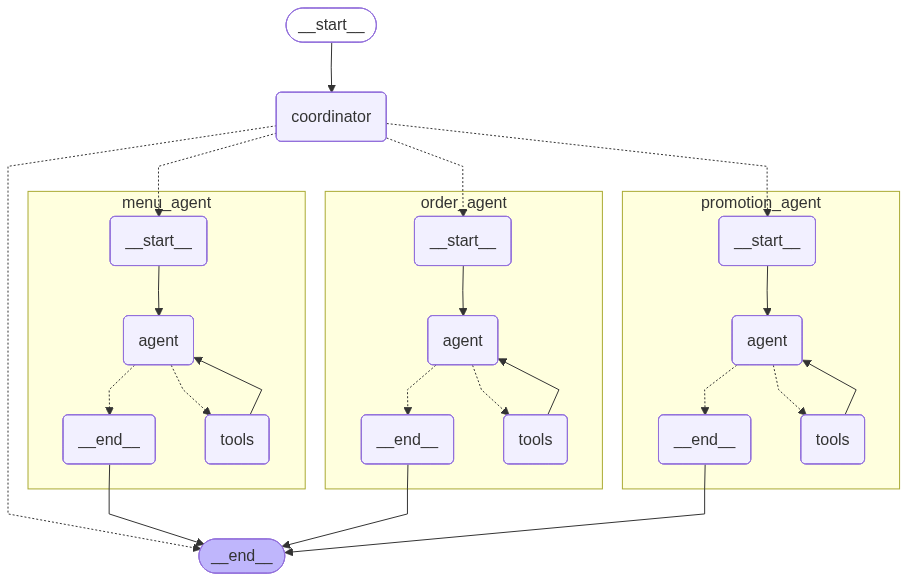
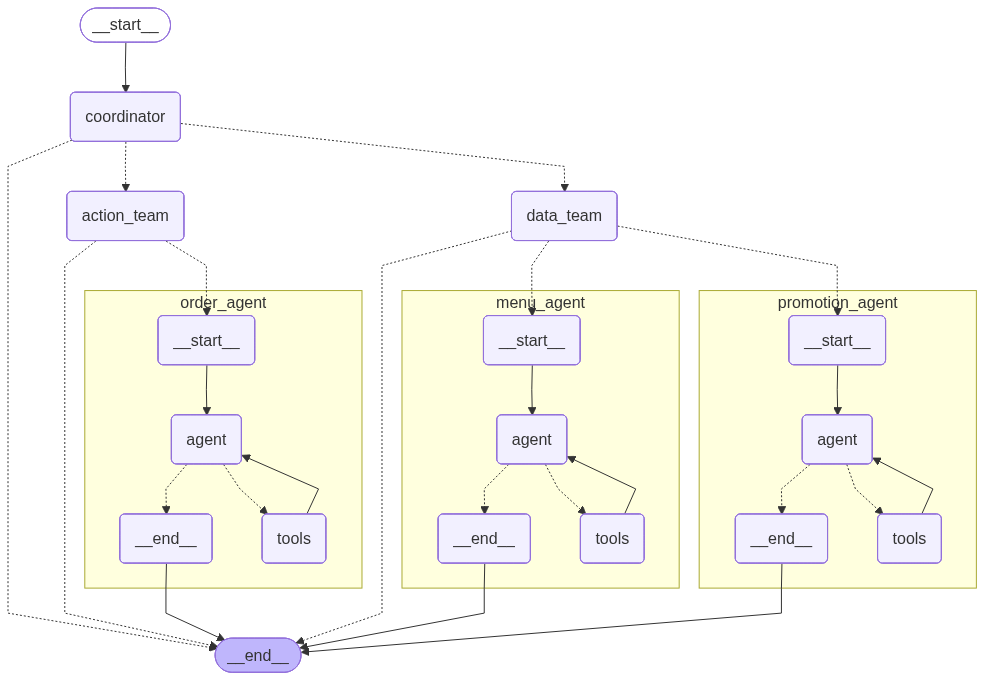
docs(graph): move architecture images to statics and update export/doc references

diff --git a/ai-service/scripts/export_graph.py b/ai-service/scripts/export_graph.py
@@ -1,31 +1,35 @@
-"""Export LangGraph chatbot architecture as PNG images."""
+"""Export chatbot architecture diagrams to statics/.
 
-import os
-import sys
+Run:
+    uv run graph.py
+"""
+
 from pathlib import Path
 
-# Add project root to Python path (works from any directory)
-PROJECT_ROOT = str(Path(__file__).resolve().parent.parent)
-sys.path.insert(0, PROJECT_ROOT)
-os.chdir(PROJECT_ROOT)
-
-from src.agents.graph import get_graph  # noqa: E402
+from src.agents.graph import get_graph
 
 
-def main():
-    docs_dir = os.path.join(PROJECT_ROOT, "docs")
-    os.makedirs(docs_dir, exist_ok=True)
+def export_graph_images(output_dir: Path) -> None:
+    """Render and save overview + detailed graph images."""
+    output_dir.mkdir(parents=True, exist_ok=True)
 
     graph = get_graph()
+    renders = [
+        (False, "overview_graph.png"),
+        (True, "detailed_graph.png"),
+    ]
 
-    for xray, name in [(False, "overview_graph.png"), (True, "detailed_graph.png")]:
+    for xray, name in renders:
         png = graph.get_graph(xray=xray).draw_mermaid_png()
-        path = os.path.join(docs_dir, name)
-        with open(path, "wb") as f:
-            f.write(png)
-        print(f"✅ {name}")
+        path = output_dir / name
+        path.write_bytes(png)
+        print(f"Saved: {path}")
 
-    print(f"\nSaved to: {docs_dir}/")
+
+def main() -> None:
+    project_root = Path(__file__).resolve().parent.parent
+    output_dir = project_root / "statics"
+    export_graph_images(output_dir)
 
 
 if __name__ == "__main__":

diff --git a/ai-service/README.md b/ai-service/README.md
@@ -12,7 +12,7 @@ This project provides two core services:
 ## 🏗 Project Structure
 
 ```
-android-ai-service/
+voice-chatbot/
 ├── main.py                          # Entry point — FastAPI application
 ├── pyproject.toml                   # Dependencies & project metadata
 ├── .env                             # Environment variables (API keys, config)
@@ -20,7 +20,7 @@ android-ai-service/
 ├── scripts/
 │   └── export_graph.py              # Export LangGraph architecture as PNG
 │
-├── statics/                            # Architecture diagrams
+├── statics/                         # Architecture diagrams
 │   ├── overview_graph.png
 │   └── detailed_graph.png
 │
@@ -31,11 +31,16 @@ android-ai-service/
     │
     ├── agents/                      # 🤖 Multi-Agent System (LangGraph)
     │   ├── state.py                 # Shared state (messages, session_id)
-    │   ├── coordinator.py           # Coordinator agent — intent analysis & routing
+    │   ├── coordinator.py           # Top coordinator — route to team layer
     │   ├── menu_agent.py            # Menu agent — search dishes, view details
     │   ├── order_agent.py           # Order agent — cart management, checkout
     │   ├── promotion_agent.py       # Promotion agent — coupons, deals
     │   └── graph.py                 # LangGraph workflow definition
+    │
+    ├── teams/                       # 👥 Team routers
+    │   ├── action_team.py           # Action team router — route order actions
+    │   ├── data_team.py             # Data team router — route info queries
+    │   └── team_router.py           # Shared reusable router logic
     │
     ├── api/                         # 🌐 FastAPI Routes & Schemas
     │   ├── schemas.py               # Pydantic models (request/response)
@@ -66,7 +71,7 @@ android-ai-service/
 
 ```bash
 git clone <repo-url>
-cd android-ai-service
+cd voice-chatbot
 cp .env.example .env
 # Edit .env and fill in your OPENROUTER_API_KEY
 ```
@@ -100,7 +105,11 @@ Server runs at: `http://localhost:8000`
 
 ![Detailed Graph](statics/detailed_graph.png)
 
-> **How it works:** Every user message goes to the **Coordinator** first. The Coordinator uses an LLM to analyze intent and routes to the appropriate sub-agent. Each sub-agent is a **ReAct agent** (Reason + Act loop) that calls tools to answer the user's question, then returns to `__end__`.
+> **How it works:** Every user message goes to the **Coordinator** first. The Coordinator routes to one of two teams:
+> - **data_team** for information lookup (menu, promotions, coupons)
+> - **action_team** for ordering actions (cart updates, checkout)
+>
+> Team routers then select the correct leaf agent. Each leaf agent is a **ReAct agent** (Reason + Act loop) that calls tools and returns to `__end__`.
 
 ### Data Flow
 
@@ -109,6 +118,10 @@ User: "Thêm 2 tô phở bò vào giỏ hàng"
   │
   ▼
 Coordinator (LLM analyzes intent)
+  → Returns: {"next": "action_team", "response": ""}
+  │
+  ▼
+Action Team Router
   → Returns: {"next": "order_agent", "response": ""}
   │
   ▼
